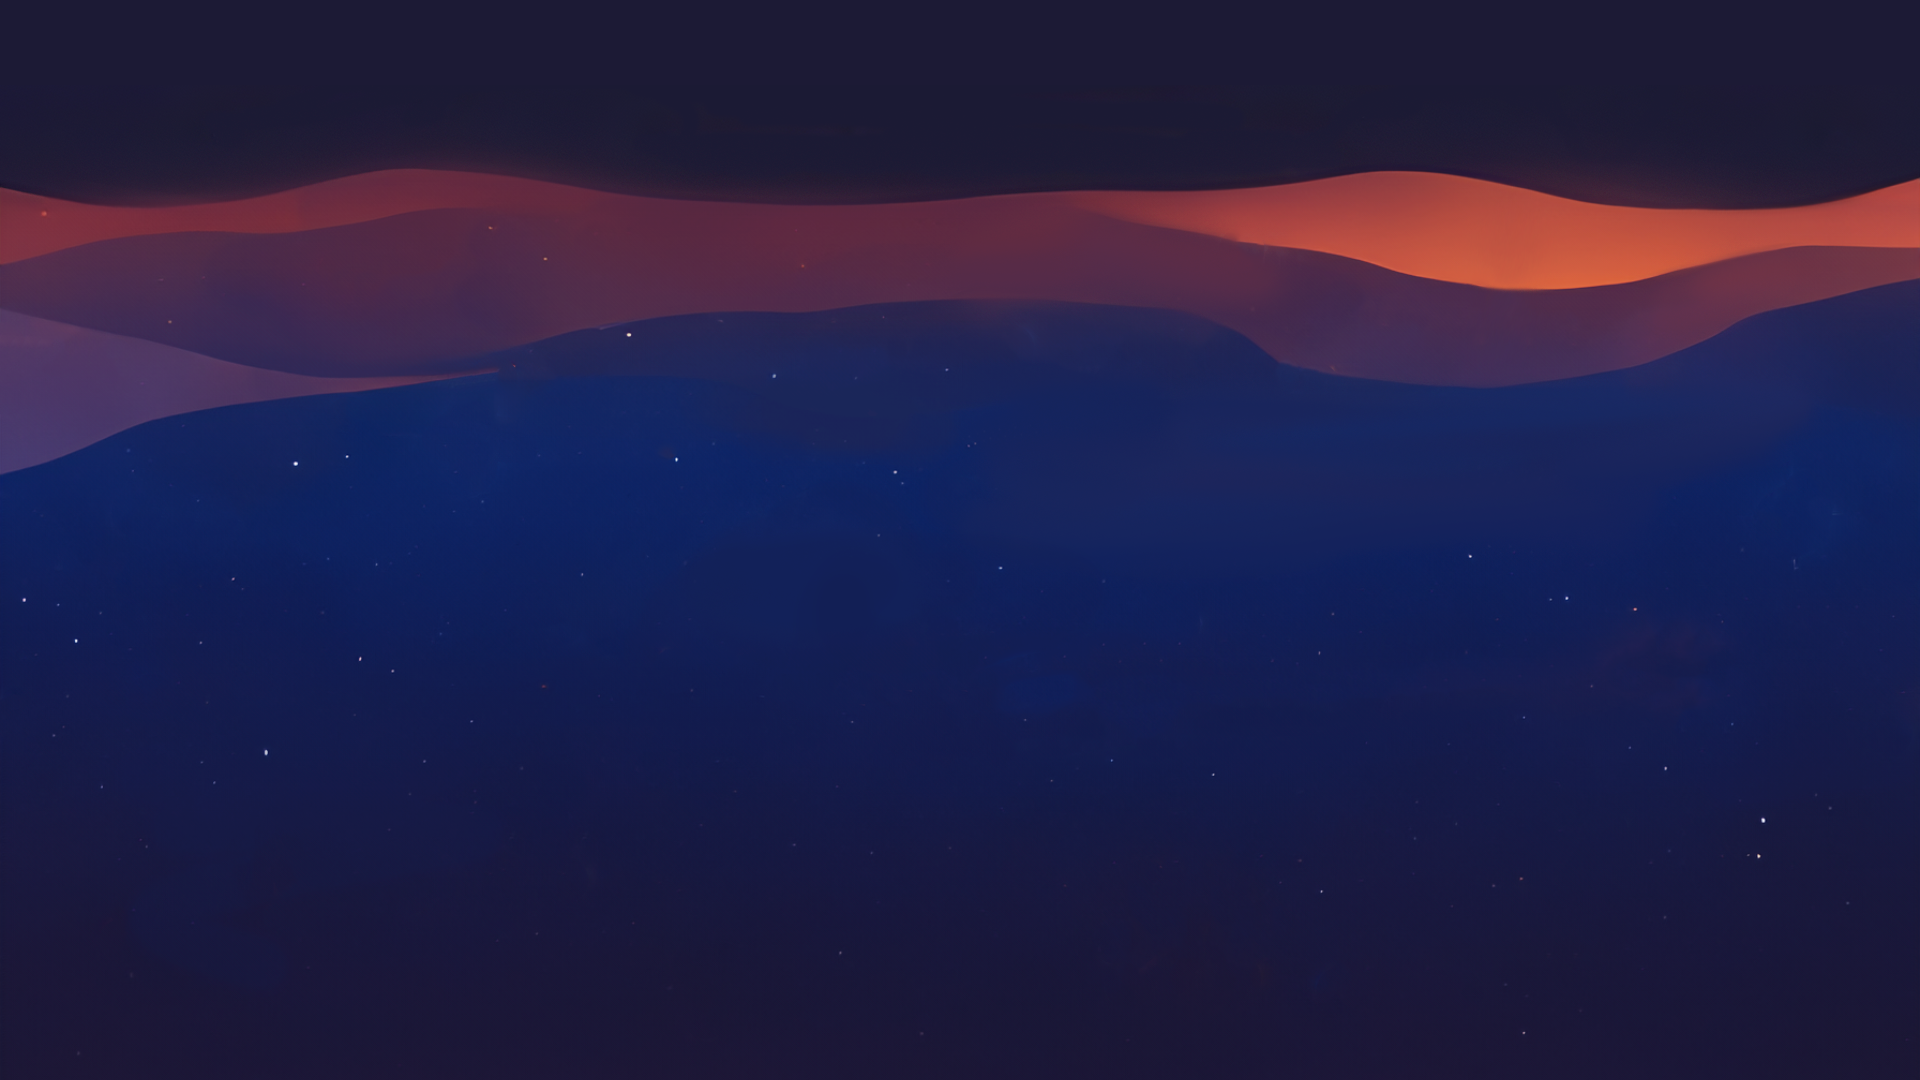
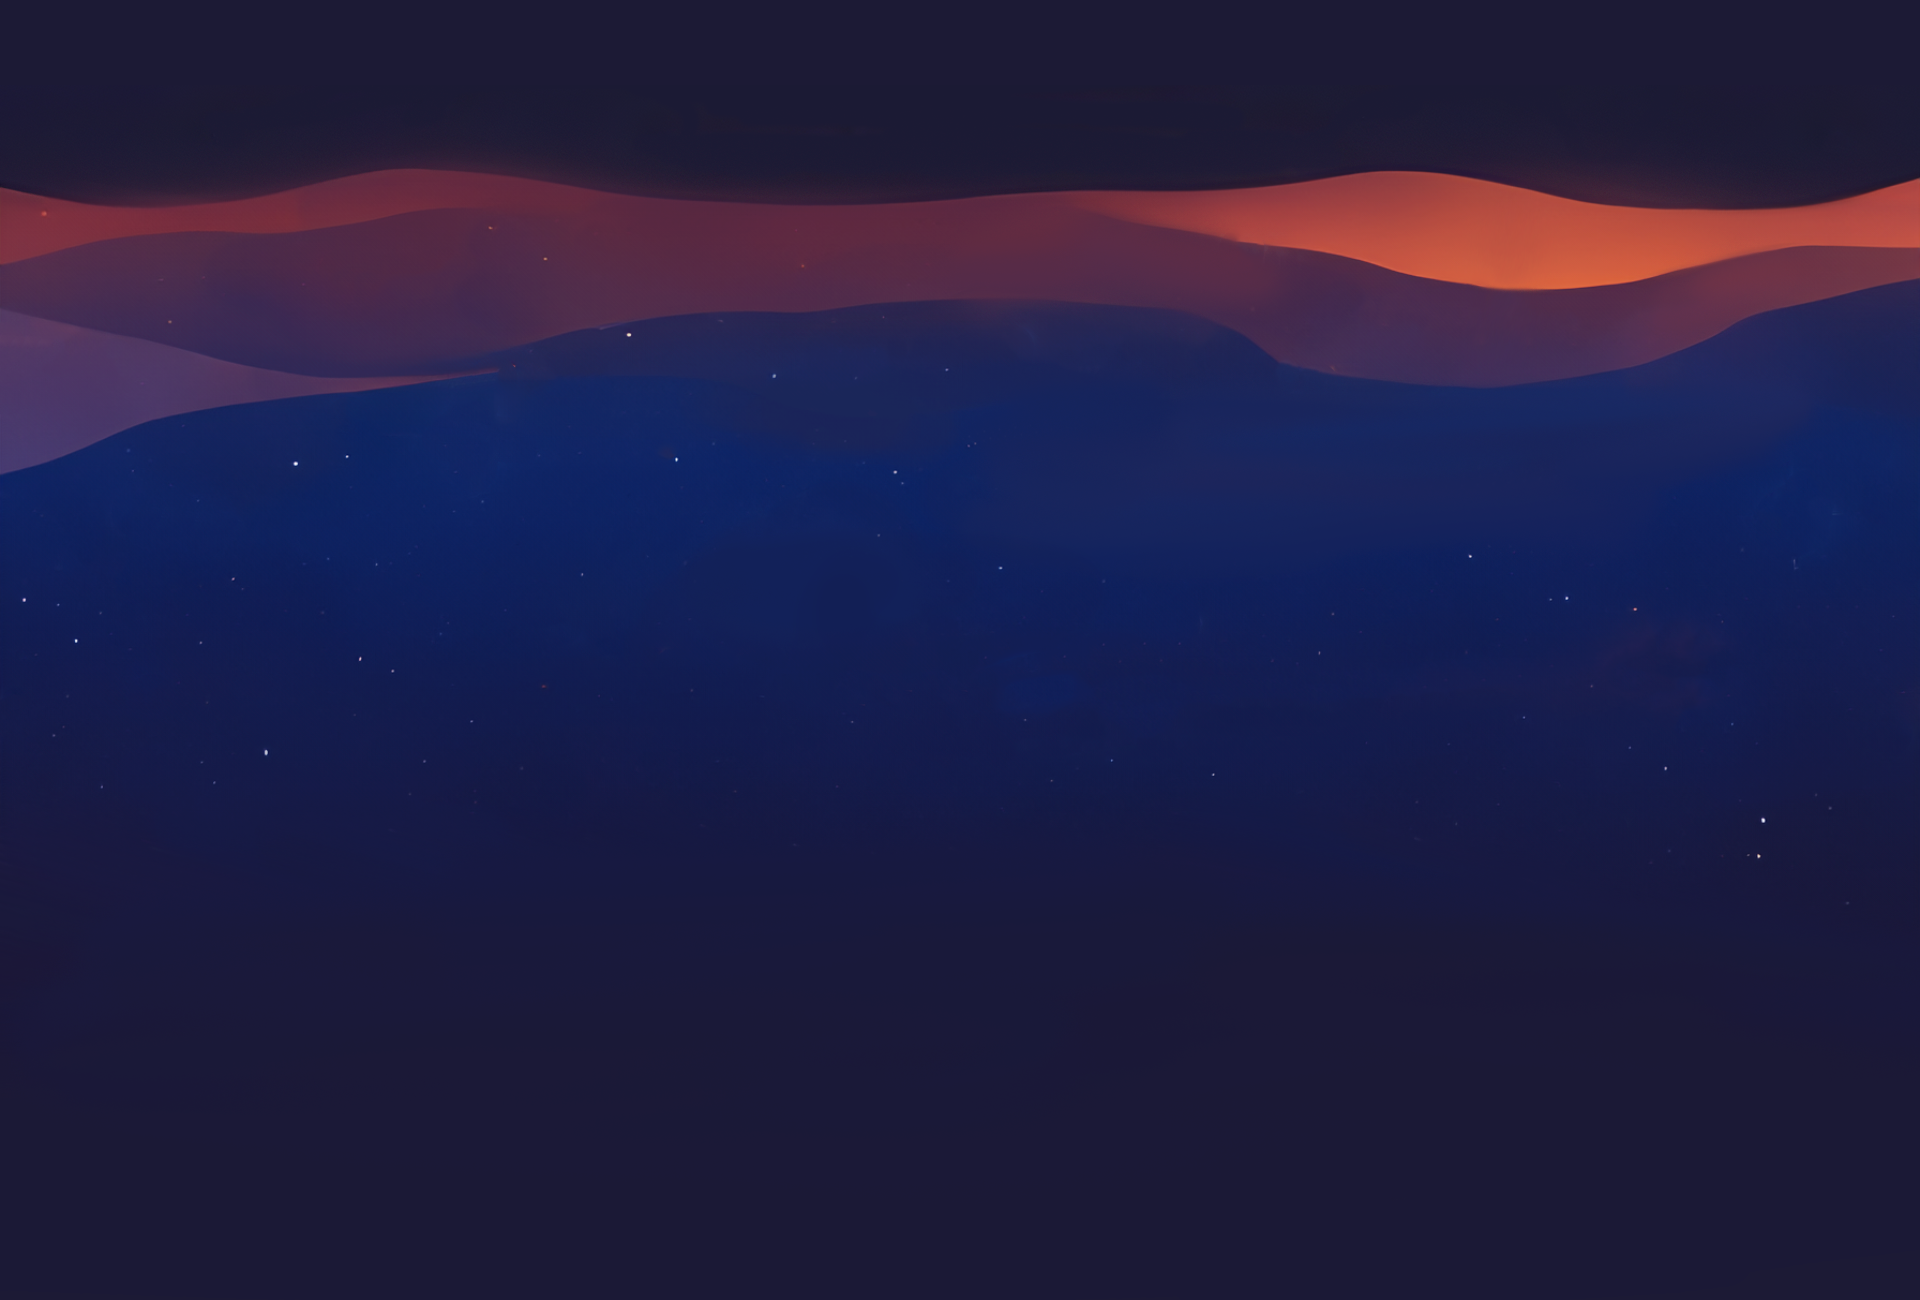
css - footer, background and planets

Changed region(s): [[0.0, 0.1222, 1.0, 0.4583]]

diff --git a/src/Components/planets.css b/src/Components/planets.css
@@ -33,14 +33,12 @@ body {
   min-height: 77vh;
   font-size: 25px;
   text-align: left;
-  margin-top: 10px;
   padding: 10px;
-  background-image: url("../images/spiral.jpg");
+  background-image: url("../images/bkgnd/bk.png");
+  background-position: center calc(50% - 9vh);
   background-size: 100% 100%;
-  /* background-color: rgba(33, 38, 48, 0.8); */
   border-radius: 10px;
-  box-shadow: 0 0 10px rgba(255, 255, 255, 0.2);
-  /* Outer glow effect */
+  /* box-shadow: 0 0 10px rgba(255, 255, 255, 0.2); */
   color: #f0f0f0;
 }
 
@@ -57,7 +55,7 @@ body {
   flex: 1;
 }
 
-.planet-text {
+.planet-stats {
   max-width: 400px;
   max-width: 30%;
   flex: 1;

diff --git a/src/Components/Jupiter.js b/src/Components/Jupiter.js
@@ -44,7 +44,7 @@ function Jupiter() {
                 Jupiter is the largest planet in our solar system, known for its massive size and the Great Red Spot.
               </p> </div>
             <img src={jupiterImage} alt="Jupiter" className="planet-image planet-image-spin"  />
-            <div className="planet-text">
+            <div className="planet-stats">
               <p> <strong>Mass:</strong>  {planetData.mass} Jupiters</p>
               <p> <strong>Radius:</strong> {planetData.radius} Jupiters</p>
               <p><strong>Orbital Period: </strong>{planetData.period} Earth days</p>

diff --git a/src/App.css b/src/App.css
@@ -128,7 +128,11 @@ h2.planet {
   transform: translate(-50%, -50%);
   z-index: 1;
   font-weight: bold;
-  text-shadow: -3px 0 #000000, 0 3px #000000, 3px 0 #000000, 0 -3px #000000;
+  text-shadow:
+  -1px -1px 0 #000,  
+  1px -1px 0 #000,   
+  -1px 1px 0 #000,   
+  1px 1px 0 #000;   
 }
 
 .text-containerF {
@@ -257,10 +261,11 @@ h2.planet {
 
 footer {
   padding-top: 2%;
-  background-image: url(images/wallpaperflare.com_wallpaper.jpg);
+  background-color: #1c1935;
   padding-bottom: 2%;
   clear: both;
   font-size: x-large;
+ 
 }
 
 .copyright {

diff --git a/src/Components/Neptune.js b/src/Components/Neptune.js
@@ -47,7 +47,7 @@ function Neptune() {
               </p>
             </div>
             <img src={neptuneImage} alt="Neptune" className="planet-image planet-image-spin" />
-            <div className="planet-text">
+            <div className="planet-stats">
               <p> <strong>Mass:</strong>  {planetData.mass} Jupiters</p>
               <p> <strong>Radius:</strong> {planetData.radius} Jupiters</p>
               <p><strong>Orbital Period: </strong>{planetData.period} Earth days</p>

diff --git a/src/Components/Uranus.js b/src/Components/Uranus.js
@@ -47,7 +47,7 @@ function Saturn() {
               </p>
             </div>
             <img src={uranusImage} alt="Uranus"  className="planet-image planet-image-spin" />
-            <div className="planet-text">
+            <div className="planet-stats">
               <p> <strong>Mass:</strong>  {planetData.mass} Jupiters</p>
               <p> <strong>Radius:</strong> {planetData.radius} Jupiters</p>
               <p><strong>Orbital Period: </strong>{planetData.period} Earth days</p>

diff --git a/src/Components/Mars.js b/src/Components/Mars.js
@@ -47,7 +47,7 @@ function Mars() {
               </p>
             </div>
             <img src={marsImage} alt="Mars" className="planet-image planet-image-spin" />
-            <div className="planet-text">
+            <div className="planet-stats">
               <p> <strong>Mass:</strong>  {planetData.mass} Jupiters</p>
               <p> <strong>Radius:</strong> {planetData.radius} Jupiters</p>
               <p><strong>Orbital Period: </strong>{planetData.period} Earth days</p>

diff --git a/src/Components/Saturn.js b/src/Components/Saturn.js
@@ -47,7 +47,7 @@ function Saturn() {
               </p>
             </div>
             <img src={saturnImage} alt="Saturn" className="planet-image" />
-            <div className="planet-text">
+            <div className="planet-stats">
               <p> <strong>Mass:</strong>  {planetData.mass} Jupiters</p>
               <p> <strong>Radius:</strong> {planetData.radius} Jupiters</p>
               <p><strong>Orbital Period: </strong>{planetData.period} Earth days</p>

diff --git a/src/Components/Earth.js b/src/Components/Earth.js
@@ -50,7 +50,7 @@ function Earth() {
             </div>
 
             <img src={earthImage} alt="Earth" className="planet-image planet-image-spin" />
-            <div className="planet-text">
+            <div className="planet-stats">
               <p> <strong>MASS:</strong>  {planetData.mass} Jupiters</p>
               <p> <strong>RADUIS:</strong> {planetData.radius} Jupiters</p>
               <p><strong>ORBITAL PERIOD: </strong>{planetData.period} Earth days</p>

diff --git a/src/Components/Venus.js b/src/Components/Venus.js
@@ -52,7 +52,7 @@ function Venus() {
             <img src={venusImage} alt="Venus" className="planet-image planet-image-spin" />
 
 
-            <div className="planet-text">
+            <div className="planet-stats">
               <p> <strong>Mass:</strong>  {planetData.mass} Jupiters</p>
               <p> <strong>Radius:</strong> {planetData.radius} Jupiters</p>
               <p><strong>Orbital Period: </strong>{planetData.period} Earth days</p>

diff --git a/src/Components/Mercury.js b/src/Components/Mercury.js
@@ -46,7 +46,7 @@ function Mercury() {
               </p>
             </div>
             <img src={mercuryImage} alt="Mercury" className="planet-image planet-image-spin" />
-            <div className="planet-text">
+            <div className="planet-stats">
               <p>
                 <strong>Mass:</strong> {planetData.mass} Jupiters
               </p>
